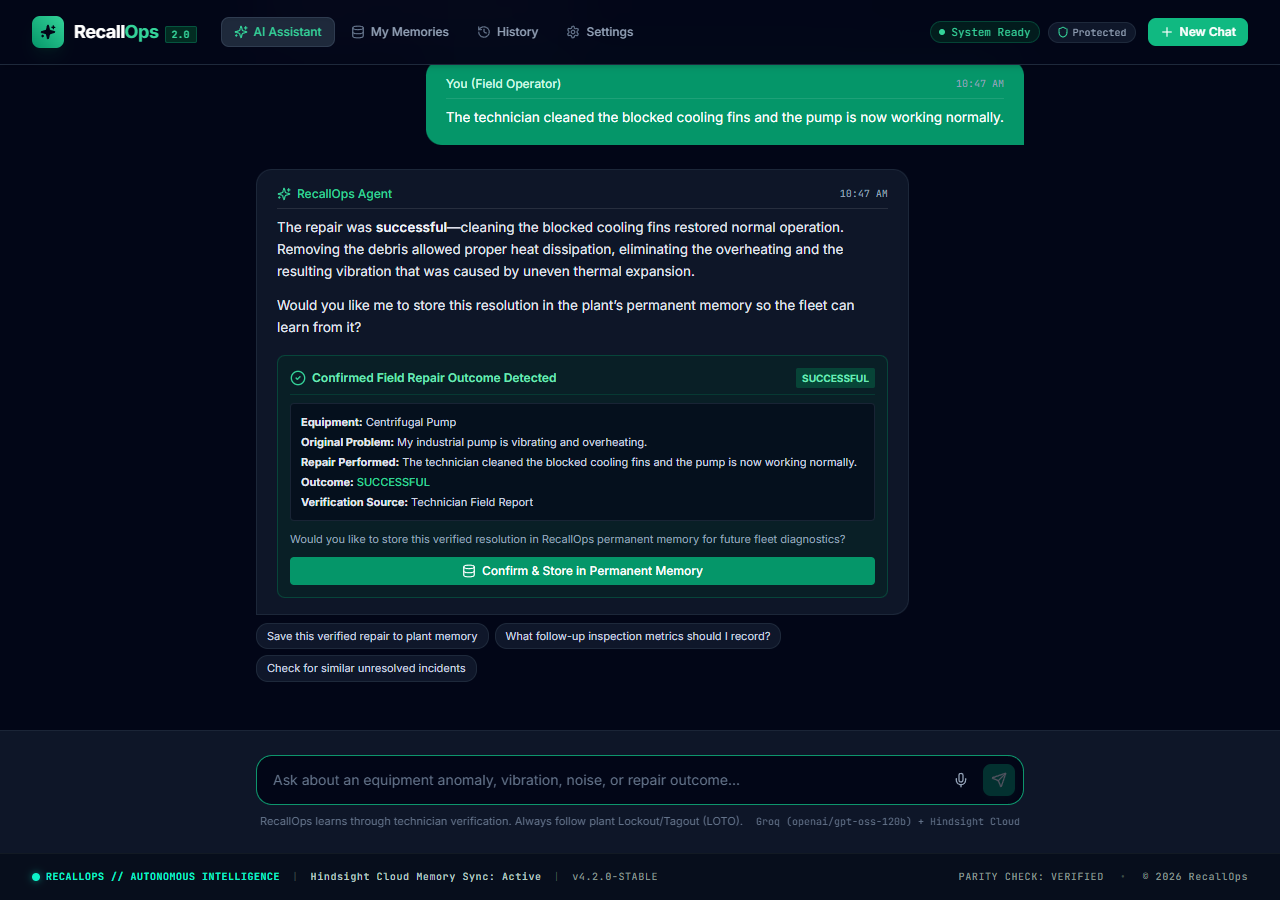
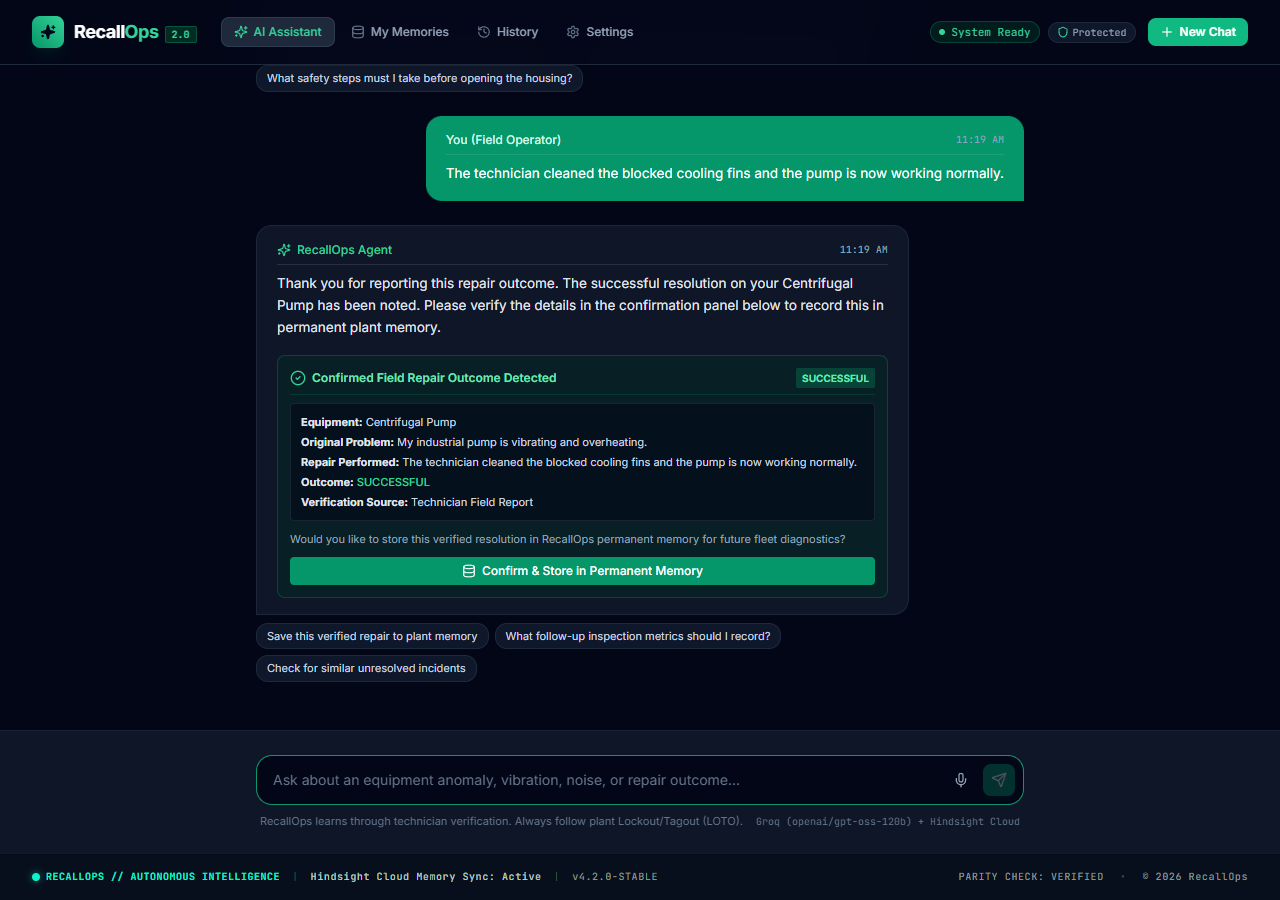
feat(phase5): validate retain response success and record fresh browser QA evidence

Changed region(s): [[0.1875, 0.0622, 0.8125, 0.3733]]

diff --git a/backend/services/chat_service.py b/backend/services/chat_service.py
@@ -1284,13 +1284,24 @@ class ChatService:
                     "follow_up_metrics": req.follow_up_metrics,
                     "verified_at": now_iso,
                 }
-                hindsight_service.retain_incident_outcome(
+                ret_resp = hindsight_service.retain_incident_outcome(
                     incident=incident_dict,
                     repair=repair_dict,
                     verification=verification_dict,
                 )
-                hindsight_retained = True
-                sync_status = "synced"
+                success = True
+                if hasattr(ret_resp, "success"):
+                    success = bool(ret_resp.success)
+                elif isinstance(ret_resp, dict) and "success" in ret_resp:
+                    success = bool(ret_resp["success"])
+
+                if success:
+                    hindsight_retained = True
+                    sync_status = "synced"
+                else:
+                    hindsight_retained = False
+                    sync_status = "sync_failed"
+                    sync_error = "Hindsight retain returned success=False"
             except Exception as e:
                 logger.warning("Live Hindsight retain failed: %s. Local record preserved with sync_status='sync_failed'.", e)
                 hindsight_retained = False
@@ -1420,22 +1431,42 @@ class ChatService:
                 "follow_up_metrics": json.loads(row["follow_up_metrics"]) if row["follow_up_metrics"] else None,
                 "verified_at": datetime.now(timezone.utc).isoformat(),
             }
-            hindsight_service.retain_incident_outcome(
+            ret_resp = hindsight_service.retain_incident_outcome(
                 incident=incident_dict,
                 repair=repair_dict,
                 verification=verification_dict,
             )
-            with get_db() as conn:
-                conn.execute(
-                    "UPDATE outcome_verifications SET sync_status = 'synced', hindsight_retained = 1, sync_error = NULL WHERE id = ?",
-                    (verification_id,),
-                )
-            return {
-                "success": True,
-                "sync_status": "synced",
-                "message": "Successfully synchronized with Hindsight Cloud.",
-                "document_id": row["hindsight_document_id"],
-            }
+            success = True
+            if hasattr(ret_resp, "success"):
+                success = bool(ret_resp.success)
+            elif isinstance(ret_resp, dict) and "success" in ret_resp:
+                success = bool(ret_resp["success"])
+
+            if success:
+                with get_db() as conn:
+                    conn.execute(
+                        "UPDATE outcome_verifications SET sync_status = 'synced', hindsight_retained = 1, sync_error = NULL WHERE id = ?",
+                        (verification_id,),
+                    )
+                return {
+                    "success": True,
+                    "sync_status": "synced",
+                    "message": "Successfully synchronized with Hindsight Cloud.",
+                    "document_id": row["hindsight_document_id"],
+                }
+            else:
+                err_msg = "Hindsight retain returned success=False"
+                with get_db() as conn:
+                    conn.execute(
+                        "UPDATE outcome_verifications SET sync_status = 'sync_failed', sync_error = ? WHERE id = ?",
+                        (err_msg, verification_id),
+                    )
+                return {
+                    "success": False,
+                    "sync_status": "sync_failed",
+                    "message": f"Sync retry failed: {err_msg}",
+                    "document_id": row["hindsight_document_id"],
+                }
         except Exception as e:
             err_msg = str(e)[:250]
             with get_db() as conn:

diff --git a/backend/services/hindsight_service.py b/backend/services/hindsight_service.py
@@ -103,11 +103,26 @@ class HindsightService:
             results = []
             if hasattr(response, "results") and response.results:
                 for item in response.results:
+                    score_val = None
+                    scores_obj = getattr(item, "scores", None)
+                    if scores_obj is not None:
+                        score_val = getattr(scores_obj, "final", None) or getattr(scores_obj, "semantic", None)
+                    if score_val is None:
+                        score_val = getattr(item, "score", None)
+
+                    ts_val = (
+                        getattr(item, "occurred_start", None)
+                        or getattr(item, "mentioned_at", None)
+                        or getattr(item, "timestamp", "")
+                    )
+
                     results.append({
                         "text": getattr(item, "text", str(item)),
-                        "score": getattr(item, "score", None),
-                        "timestamp": str(getattr(item, "timestamp", "")),
+                        "score": score_val,
+                        "timestamp": str(ts_val) if ts_val else "",
                         "document_id": getattr(item, "document_id", None),
+                        "tags": getattr(item, "tags", None),
+                        "metadata": getattr(item, "metadata", None),
                     })
             logger.info("Hindsight recall returned %d memory items.", len(results))
             return results

diff --git a/backend/services/investigation_service.py b/backend/services/investigation_service.py
@@ -415,12 +415,17 @@ class InvestigationService:
             "verified_at": now_iso,
         }
         try:
-            hindsight_service.retain_incident_outcome(
+            ret_resp = hindsight_service.retain_incident_outcome(
                 incident=incident.model_dump(),
                 repair=repair_dict,
                 verification=verification_dict,
             )
-            retained_flag = True
+            success = True
+            if hasattr(ret_resp, "success"):
+                success = bool(ret_resp.success)
+            elif isinstance(ret_resp, dict) and "success" in ret_resp:
+                success = bool(ret_resp["success"])
+            retained_flag = success
         except Exception as e:
             status = getattr(e, "status", None)
             logger.warning("Failed to retain outcome into Hindsight Cloud (status=%s). Verification recorded locally.", status)
